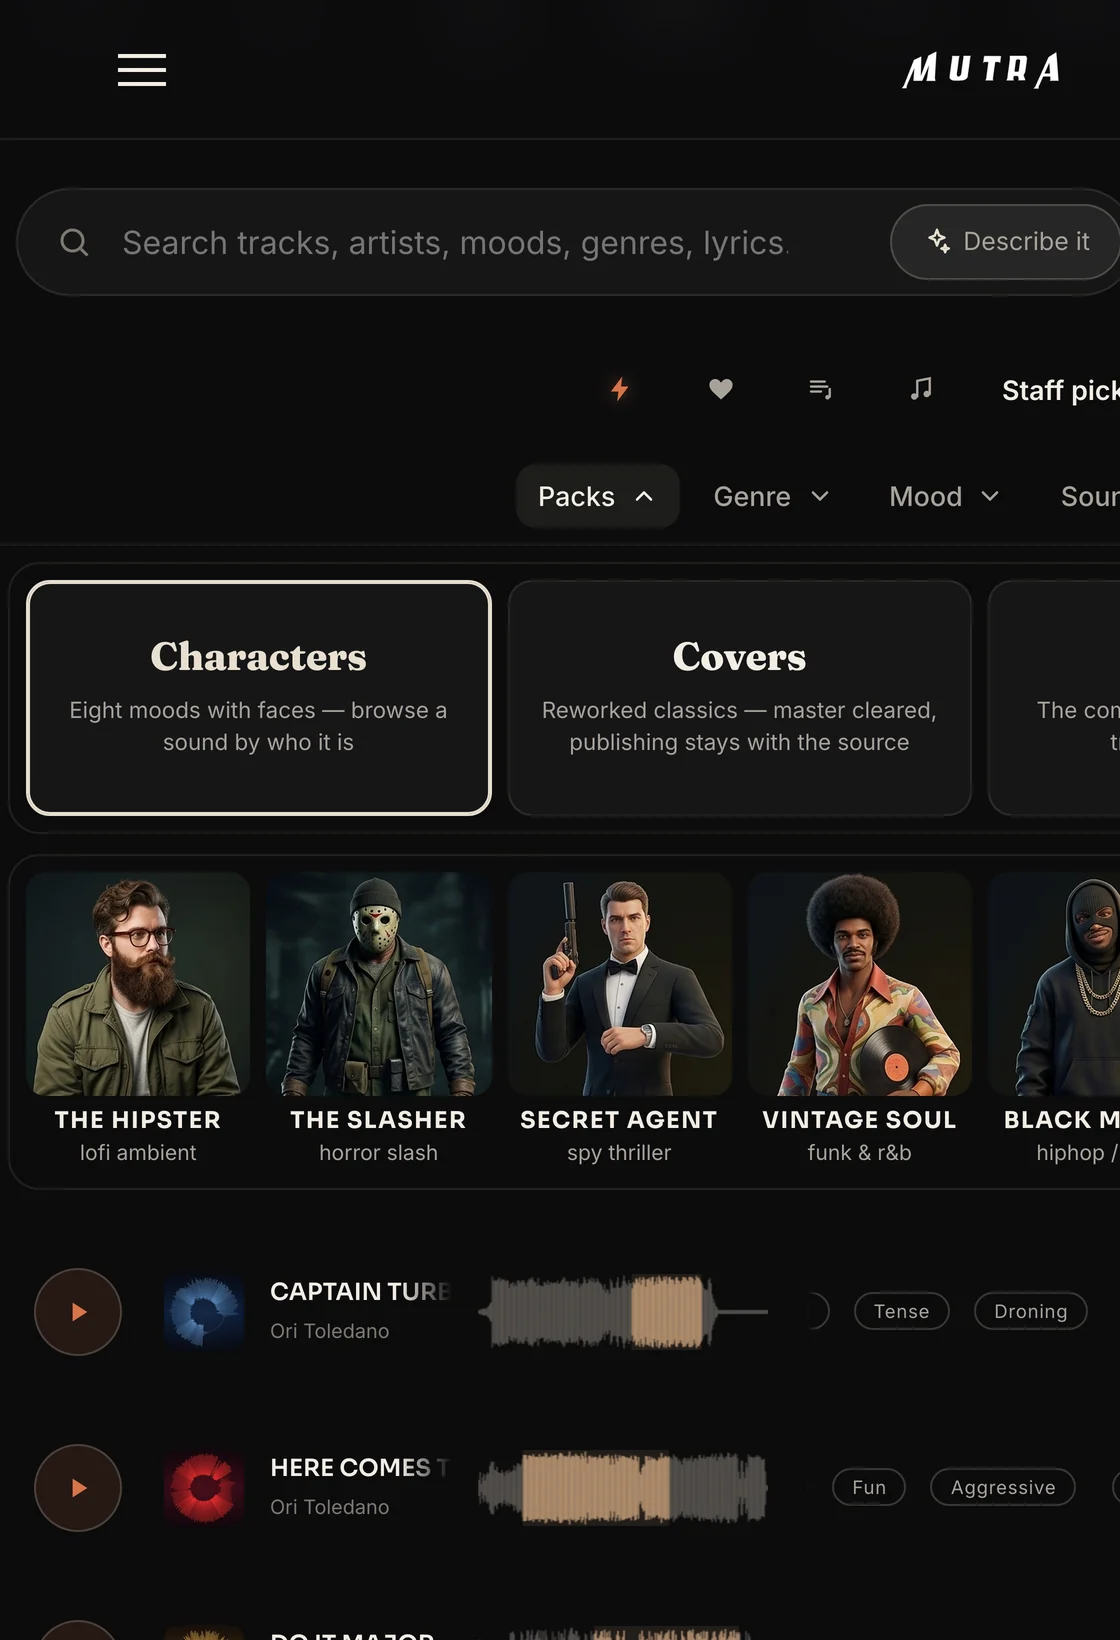
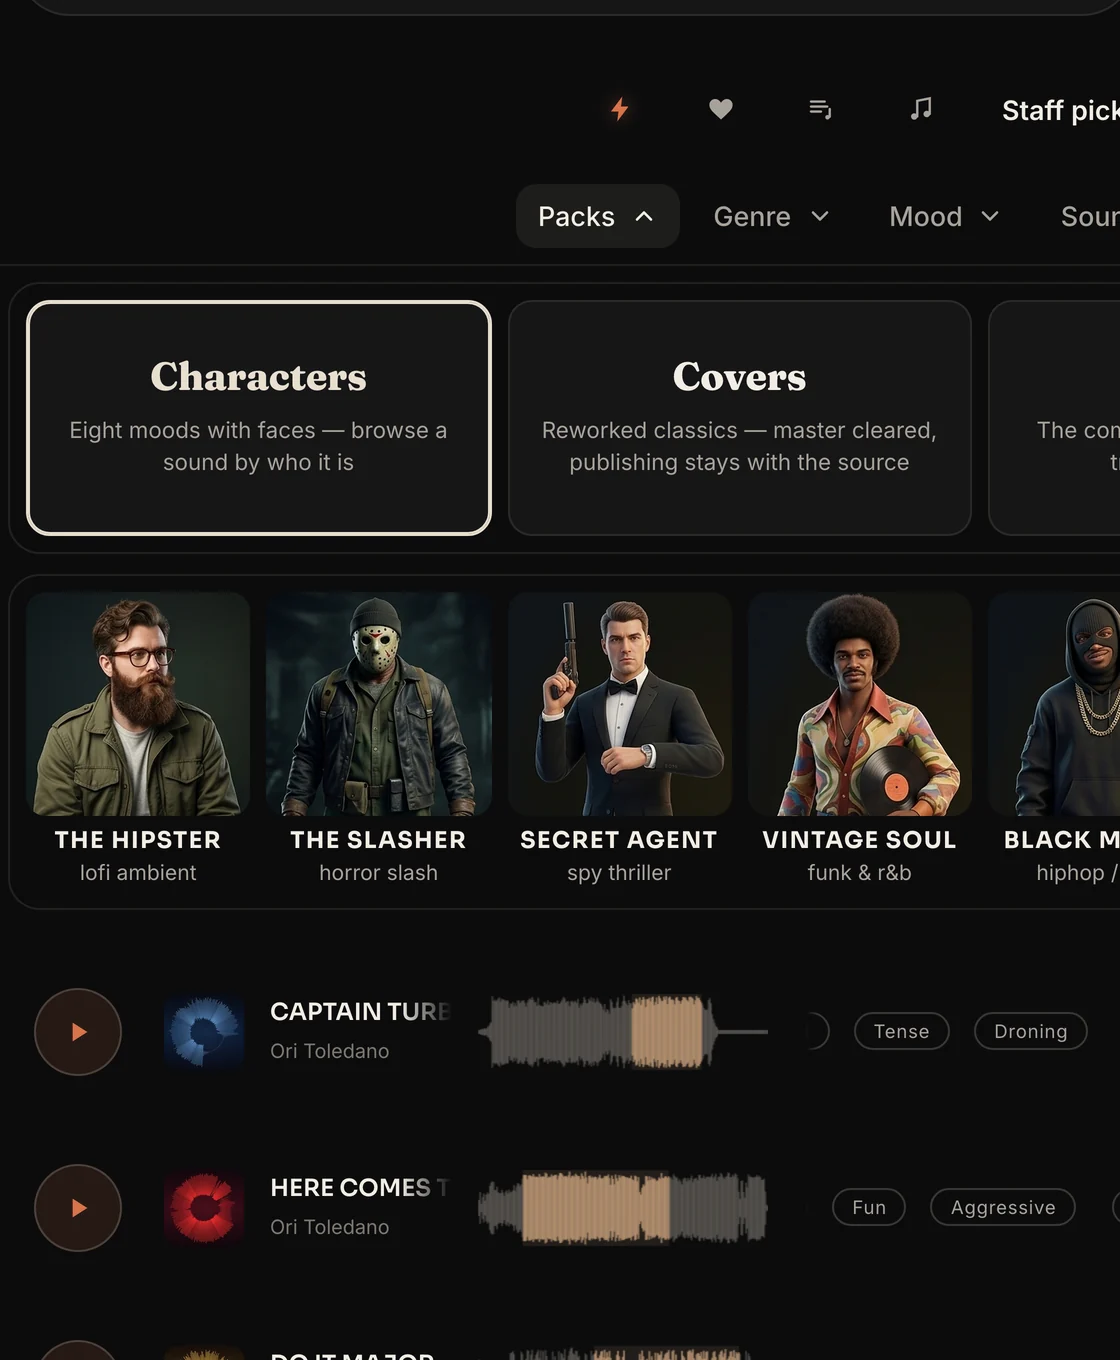
Characters window starts at its shelf so the faces read in the short band

diff --git a/index.html b/index.html
@@ -24,7 +24,7 @@
 <link href="https://fonts.googleapis.com/css2?family=Anton&family=Fraunces:opsz,wght@9..144,900&family=Sora:wght@400;500;600;700;800&family=Inter:wght@400;500;600&family=Oswald:wght@400;500;600&display=swap" rel="stylesheet">
 <script src="js/mutra-skin.js?v=4"></script>
 <link rel="stylesheet" href="css/account.css?v=11">
-<link rel="stylesheet" href="css/style.css?v=38">
+<link rel="stylesheet" href="css/style.css?v=39">
 <script type="application/ld+json">
 {"@context":"https://schema.org","@type":"Organization","name":"Snowstar.Company",
 "description":"Audio experience agency — original music, sound design and audio branding for advertising, TV, film and gaming.",
@@ -168,7 +168,7 @@
       <div class="mutra-stage" role="img"
            aria-label="Mutra on screen: the catalogue with waveforms filling the display, with the characters shelf, the licence checkout and the describe-it search layered over it">
         <div class="ms-lap"><img src="assets/lap-catalog.webp" alt="" loading="lazy" width="2880" height="1800"></div>
-        <img class="ms-win ms-chr" src="assets/win-characters.webp" alt="" loading="lazy" width="1120" height="1640">
+        <img class="ms-win ms-chr" src="assets/win-characters.webp" alt="" loading="lazy" width="1120" height="1360">
         <img class="ms-win ms-lic" src="assets/win-licence.webp" alt="" loading="lazy" width="1040" height="1686">
         <img class="ms-win ms-ai" src="assets/win-ai.webp" alt="" loading="lazy" width="778" height="1156">
       </div>

diff --git a/css/style.css b/css/style.css
@@ -743,7 +743,7 @@ body.menu-open .menu-foot{opacity:1;transform:none}
 /* the windows over it, each at its own native width so nothing is upscaled */
 .ms-win{position:absolute;display:block;height:auto;border-radius:12px;
   border:1px solid rgba(0,0,0,.34);box-shadow:0 26px 58px rgba(38,10,4,.52)}
-.ms-chr{width:45%;left:2%;top:44%;z-index:2}
+.ms-chr{width:45%;left:2%;top:40%;z-index:2}
 .ms-lic{width:42%;left:38%;top:32%;z-index:3}
 .ms-ai{width:31%;left:77%;top:40%;z-index:4}
 @media(max-width:820px){
